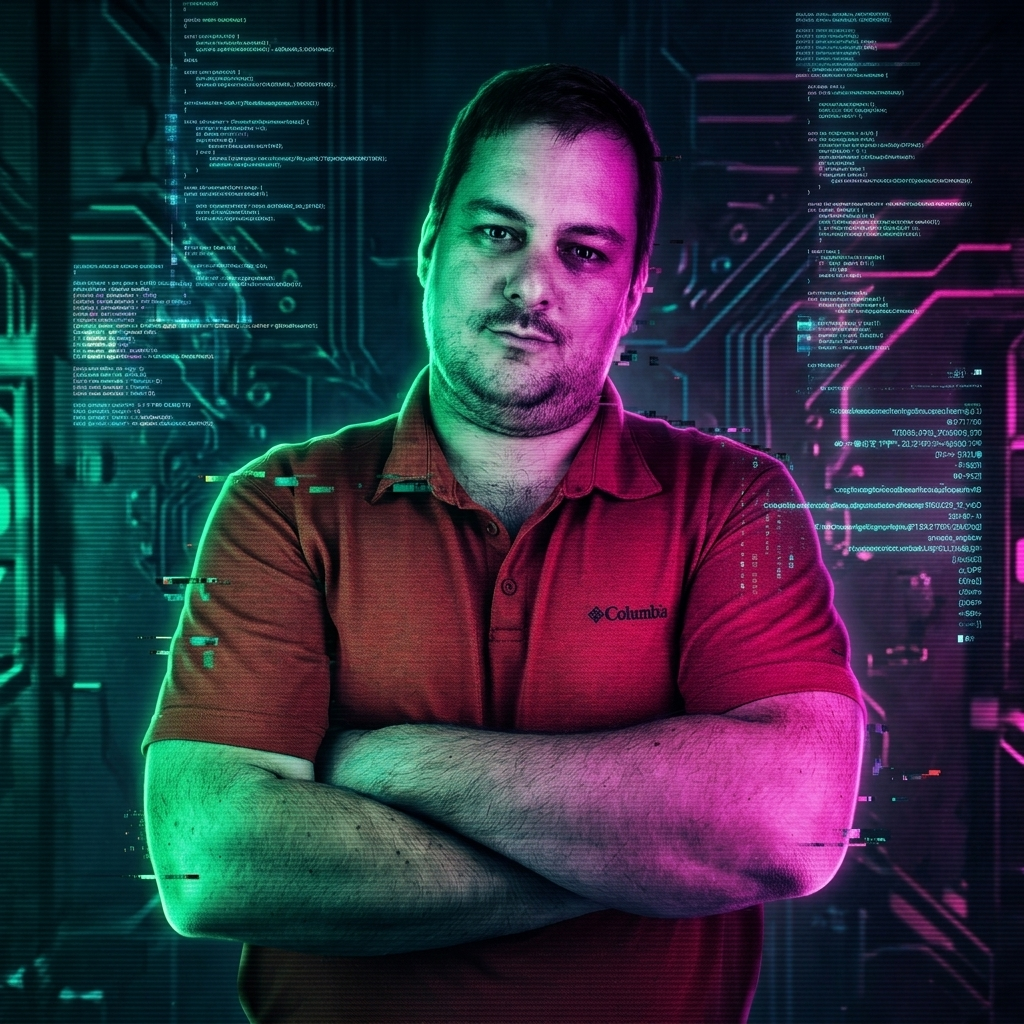
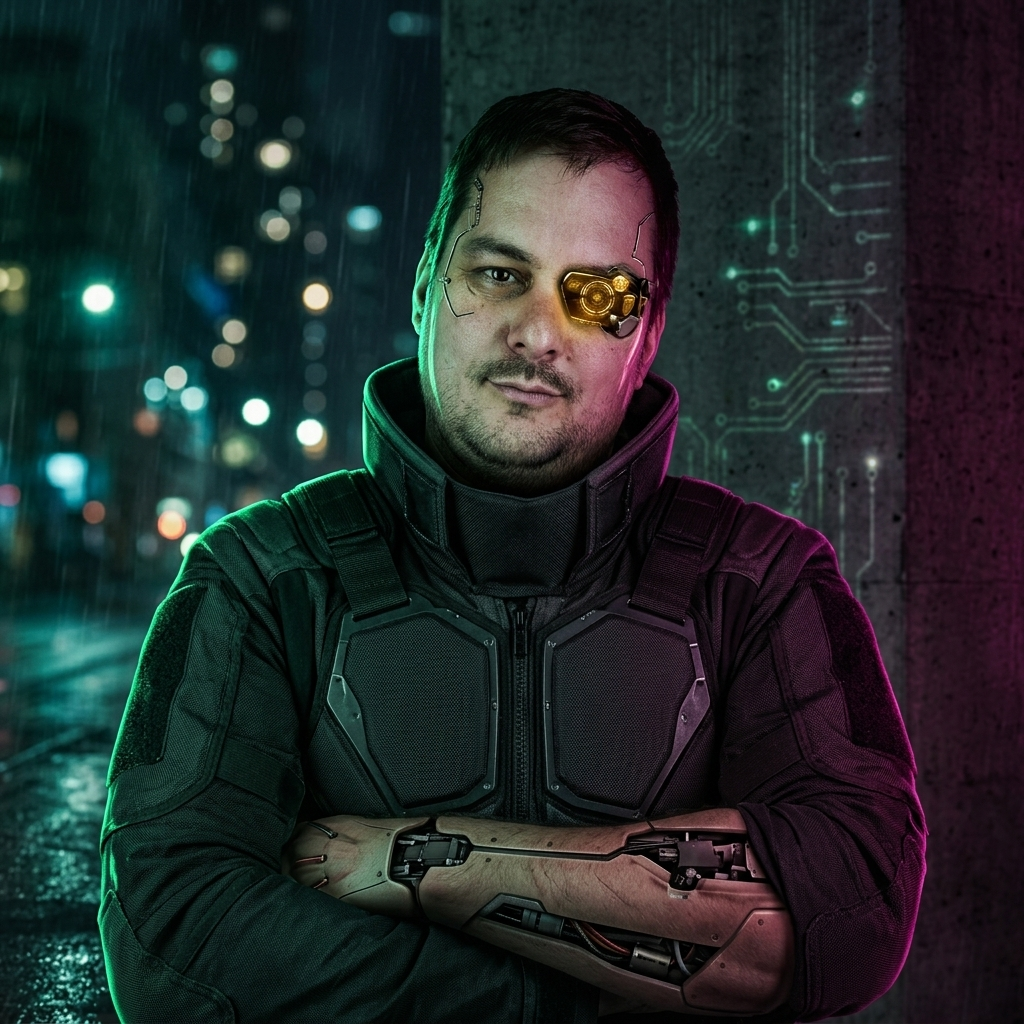
fix-images-font-author

diff --git a/v2.0/style.css b/v2.0/style.css
@@ -30,8 +30,8 @@
 .slide-cols { display: flex; align-items: stretch; width: 100%; height: 100%; }
 .col-text { flex: 1; padding: 3rem; display: flex; flex-direction: column; justify-content: center; overflow: hidden; }
 .col-center { justify-content: center; }
-.col-image { flex: 0 0 44%; max-width: 44%; overflow: hidden; }
-.col-image img { width: 100%; height: 100%; object-fit: cover; display: block; }
+.col-image { flex: 0 0 44%; max-width: 44%; overflow: hidden; padding: 0; margin: 0; }
+.col-image img { width: 100%; height: 100%; object-fit: cover; display: block; margin: 0; padding: 0; }
 .slide-center { display: flex; flex-direction: column; justify-content: center; align-items: center; text-align: center; width: 100%; height: 100%; padding: 3rem; }
 
 /* === TITLE GLITCH — split green/magenta === */
@@ -138,7 +138,7 @@
 .pain-item { font-size: 1.05em; padding: .6rem .8rem; background: rgba(255,255,255,.02); border-left: 3px solid var(--neon-magenta); border-radius: 0 6px 6px 0; }
 
 /* === HIGHLIGHT RESULT === */
-.hl-result { margin-top: 1.2rem; font-family: 'Orbitron'; font-size: 1.3em; font-weight: 900; text-align: left; }
+.hl-result { margin-top: 1.2rem; font-family: 'Inter', sans-serif; font-size: 1.1em; font-weight: 700; text-align: left; }
 
 /* === CONTACTS === */
 .contacts { margin-top: 1.5rem; font-size: 1.1em; }
